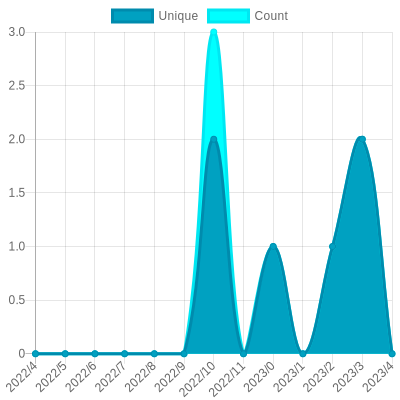
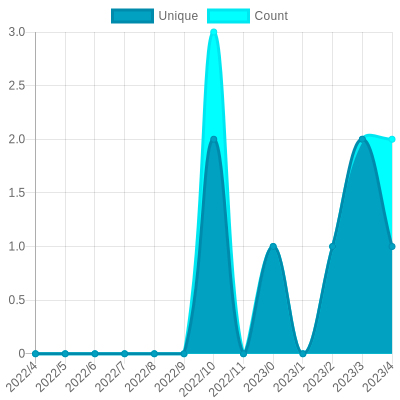
Update views

Changed region(s): [[0.87, 0.33, 0.99, 0.84], [0.96, 0.87, 0.99, 0.9]]

diff --git a/readme/350683139/year.md b/readme/350683139/year.md
@@ -23,10 +23,10 @@
 			<code>2022/5/1</code>
 		</td>
 		<td>
-			<code>0</code>
+			<code>1</code>
 		</td>
 		<td>
-			<code>0</code>
+			<code>2</code>
 		</td>
 	</tr>
 	<tr>
@@ -164,7 +164,7 @@
 </table>
 
 </details>
-<small><i>Last updated on 2022/5/13 6:34 AM UTC</i></small>
+<small><i>Last updated on 2022/5/13 12:56 PM UTC</i></small>
 
 ## ✂Copy and 📋 Paste
 ### SVG Badge

diff --git a/README.md b/README.md
@@ -149,7 +149,7 @@ The project created and maintained by [gayanvoice](https://github.com/gayanvoice
 	</tr>
 </table>
 
-<small><i>Last updated on 2022/5/13 6:34 AM UTC</i></small>
+<small><i>Last updated on 2022/5/13 12:56 PM UTC</i></small>
 
 ## ✂Copy and 📋 Paste
 ### Total Views Badge

diff --git a/readme/348337317/year.md b/readme/348337317/year.md
@@ -164,7 +164,7 @@
 </table>
 
 </details>
-<small><i>Last updated on 2022/5/13 6:33 AM UTC</i></small>
+<small><i>Last updated on 2022/5/13 12:54 PM UTC</i></small>
 
 ## ✂Copy and 📋 Paste
 ### SVG Badge

diff --git a/readme/381924543/year.md b/readme/381924543/year.md
@@ -164,7 +164,7 @@
 </table>
 
 </details>
-<small><i>Last updated on 2022/5/13 6:34 AM UTC</i></small>
+<small><i>Last updated on 2022/5/13 12:56 PM UTC</i></small>
 
 ## ✂Copy and 📋 Paste
 ### SVG Badge

diff --git a/readme/385501407/year.md b/readme/385501407/year.md
@@ -164,7 +164,7 @@
 </table>
 
 </details>
-<small><i>Last updated on 2022/5/13 6:34 AM UTC</i></small>
+<small><i>Last updated on 2022/5/13 12:55 PM UTC</i></small>
 
 ## ✂Copy and 📋 Paste
 ### SVG Badge

diff --git a/readme/385502222/year.md b/readme/385502222/year.md
@@ -164,7 +164,7 @@
 </table>
 
 </details>
-<small><i>Last updated on 2022/5/13 6:34 AM UTC</i></small>
+<small><i>Last updated on 2022/5/13 12:55 PM UTC</i></small>
 
 ## ✂Copy and 📋 Paste
 ### SVG Badge

diff --git a/readme/421063547/year.md b/readme/421063547/year.md
@@ -164,7 +164,7 @@
 </table>
 
 </details>
-<small><i>Last updated on 2022/5/13 6:33 AM UTC</i></small>
+<small><i>Last updated on 2022/5/13 12:55 PM UTC</i></small>
 
 ## ✂Copy and 📋 Paste
 ### SVG Badge

diff --git a/readme/421164512/year.md b/readme/421164512/year.md
@@ -164,7 +164,7 @@
 </table>
 
 </details>
-<small><i>Last updated on 2022/5/13 6:33 AM UTC</i></small>
+<small><i>Last updated on 2022/5/13 12:55 PM UTC</i></small>
 
 ## ✂Copy and 📋 Paste
 ### SVG Badge

diff --git a/readme/422092179/year.md b/readme/422092179/year.md
@@ -164,7 +164,7 @@
 </table>
 
 </details>
-<small><i>Last updated on 2022/5/13 6:33 AM UTC</i></small>
+<small><i>Last updated on 2022/5/13 12:55 PM UTC</i></small>
 
 ## ✂Copy and 📋 Paste
 ### SVG Badge
